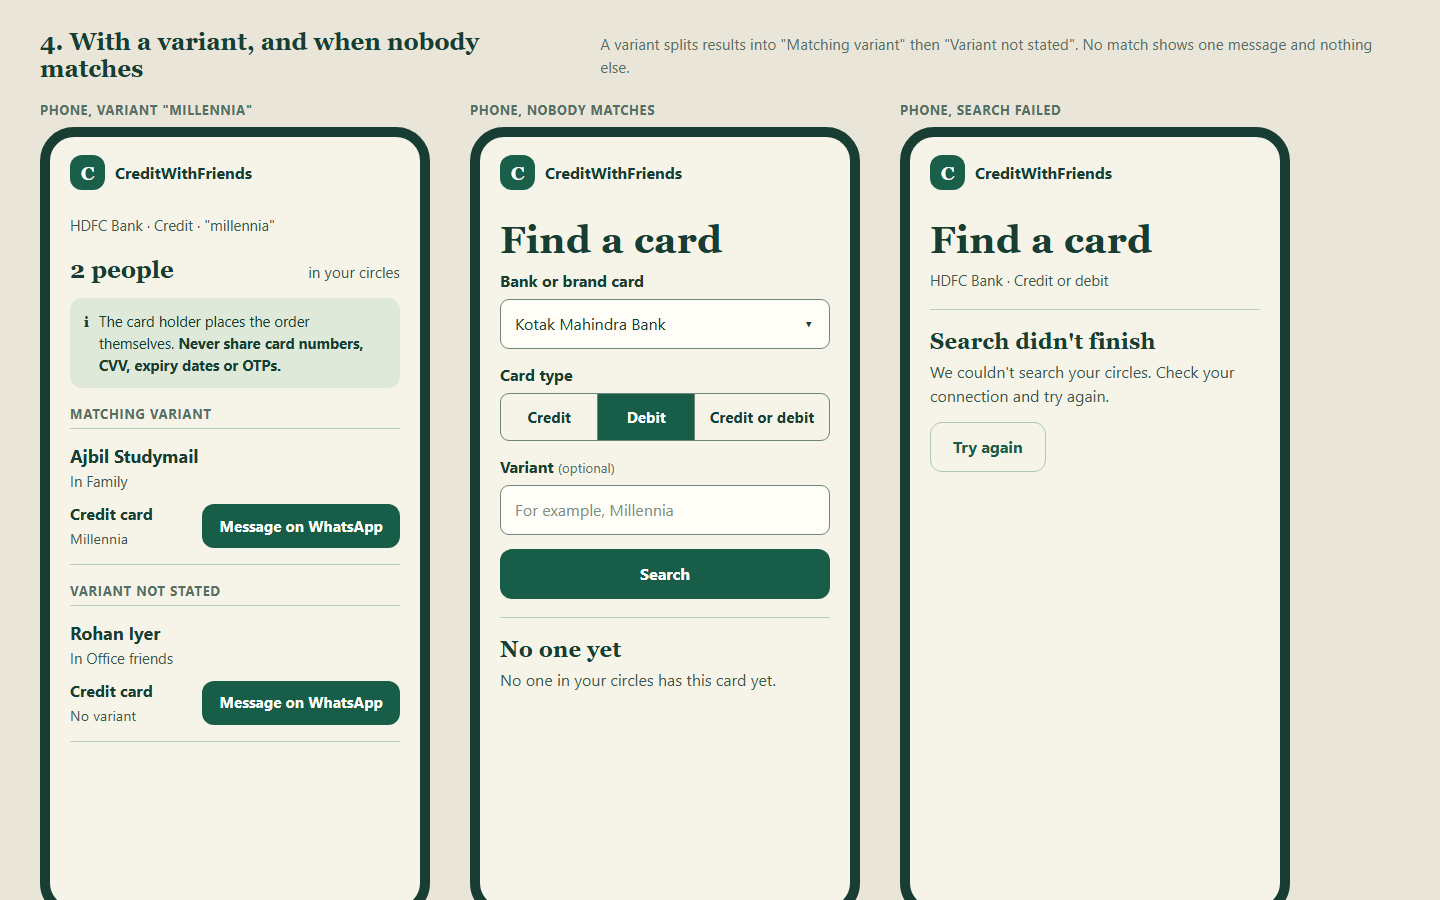
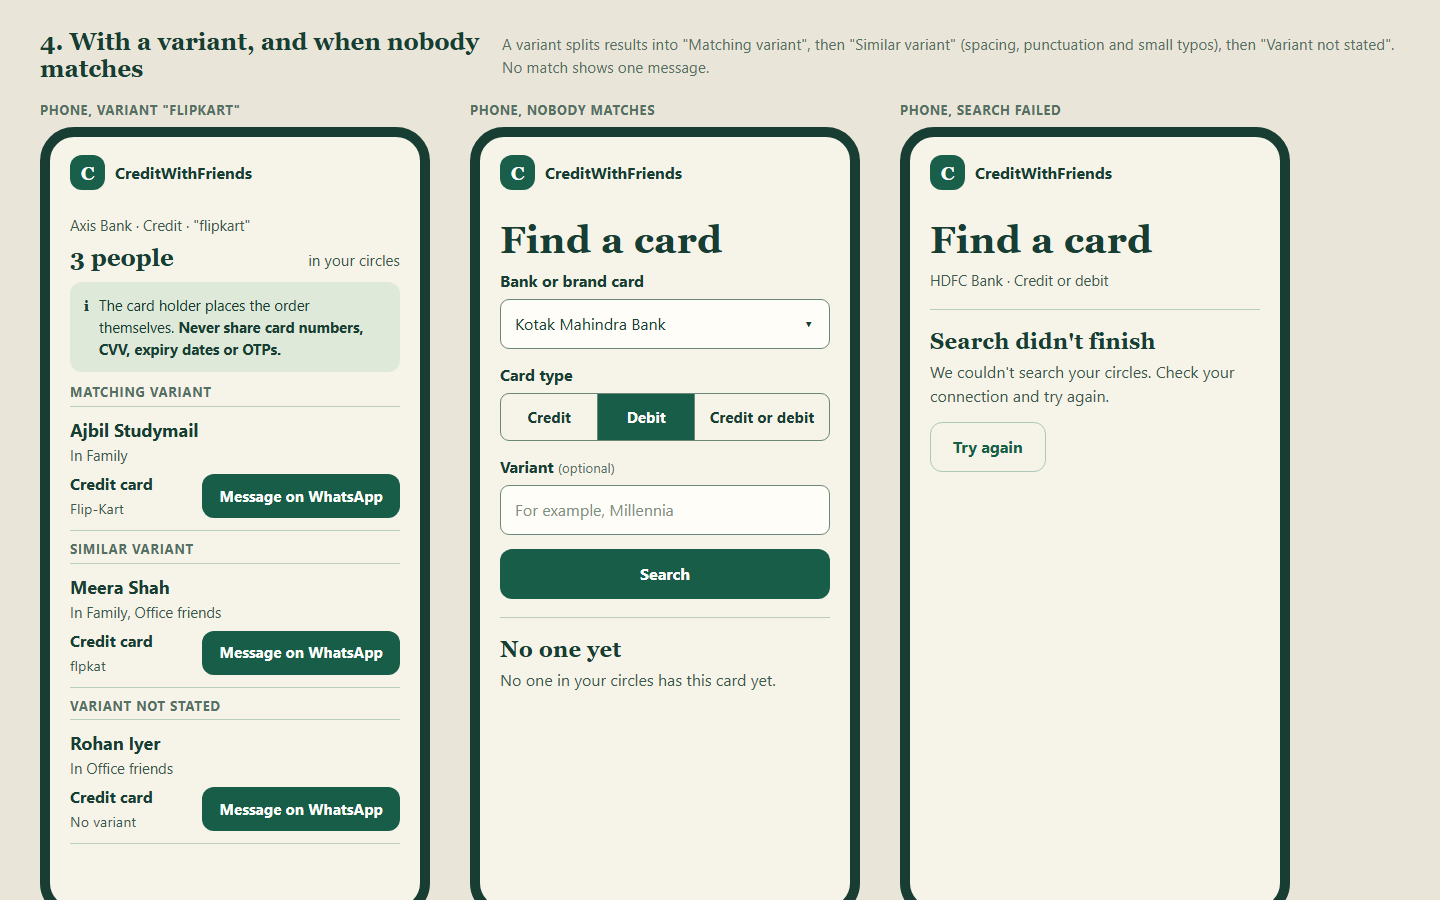
Show the similar variant group in the results design

diff --git a/docs/design/CWF-4/04-results-variant-and-empty.html b/docs/design/CWF-4/04-results-variant-and-empty.html
@@ -1,24 +1,29 @@
 <!doctype html>
 <html lang="en"><head><meta charset="utf-8"><title>04 Find a card: variant groups and no one yet</title><link rel="stylesheet" href="design.css"></head>
 <body>
-<div class="board-title"><h1>4. With a variant, and when nobody matches</h1><p>A variant splits results into "Matching variant" then "Variant not stated". No match shows one message and nothing else.</p></div>
+<div class="board-title"><h1>4. With a variant, and when nobody matches</h1><p>A variant splits results into "Matching variant", then "Similar variant" (spacing, punctuation and small typos), then "Variant not stated". No match shows one message.</p></div>
 <div class="boards">
-  <div><div class="label">Phone, variant "millennia"</div>
+  <div><div class="label">Phone, variant "flipkart"</div>
   <div class="phone">
     <div class="frame-head"><div class="mark">C</div>CreditWithFriends</div>
     <div class="page">
-      <p class="meta">HDFC Bank · Credit · "millennia"</p>
-      <div class="results-head"><h2>2 people</h2><span>in your circles</span></div>
-      <div class="note"><span>ℹ</span><span>The card holder places the order themselves. <b>Never share card numbers, CVV, expiry dates or OTPs.</b></span></div>
-      <p class="group">Matching variant</p>
+      <p class="meta">Axis Bank · Credit · "flipkart"</p>
+      <div class="results-head" style="margin-top:8px"><h2>3 people</h2><span>in your circles</span></div>
+      <div class="note" style="margin:10px 0"><span>ℹ</span><span>The card holder places the order themselves. <b>Never share card numbers, CVV, expiry dates or OTPs.</b></span></div>
+      <p class="group" style="margin-top:8px">Matching variant</p>
       <ul>
-        <li class="person"><h3>Ajbil Studymail</h3><p class="meta">In Family</p>
-          <div class="card-row"><div><b>Credit card</b><span class="meta">Millennia</span></div><span class="button wa">Message on WhatsApp</span></div></li>
+        <li class="person" style="padding:10px 0"><h3>Ajbil Studymail</h3><p class="meta">In Family</p>
+          <div class="card-row" style="margin-top:6px"><div><b>Credit card</b><span class="meta">Flip-Kart</span></div><span class="button wa">Message on WhatsApp</span></div></li>
       </ul>
-      <p class="group">Variant not stated</p>
+      <p class="group" style="margin-top:8px">Similar variant</p>
       <ul>
-        <li class="person"><h3>Rohan Iyer</h3><p class="meta">In Office friends</p>
-          <div class="card-row"><div><b>Credit card</b><span class="meta">No variant</span></div><span class="button wa">Message on WhatsApp</span></div></li>
+        <li class="person" style="padding:10px 0"><h3>Meera Shah</h3><p class="meta">In Family, Office friends</p>
+          <div class="card-row" style="margin-top:6px"><div><b>Credit card</b><span class="meta">flpkat</span></div><span class="button wa">Message on WhatsApp</span></div></li>
+      </ul>
+      <p class="group" style="margin-top:8px">Variant not stated</p>
+      <ul>
+        <li class="person" style="padding:10px 0"><h3>Rohan Iyer</h3><p class="meta">In Office friends</p>
+          <div class="card-row" style="margin-top:6px"><div><b>Credit card</b><span class="meta">No variant</span></div><span class="button wa">Message on WhatsApp</span></div></li>
       </ul>
     </div>
   </div></div>
